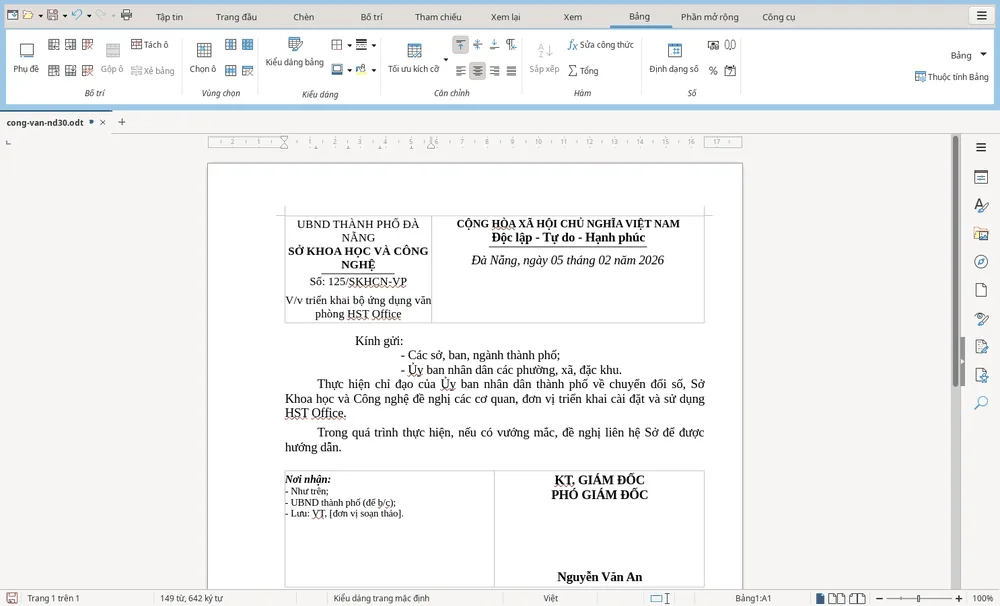
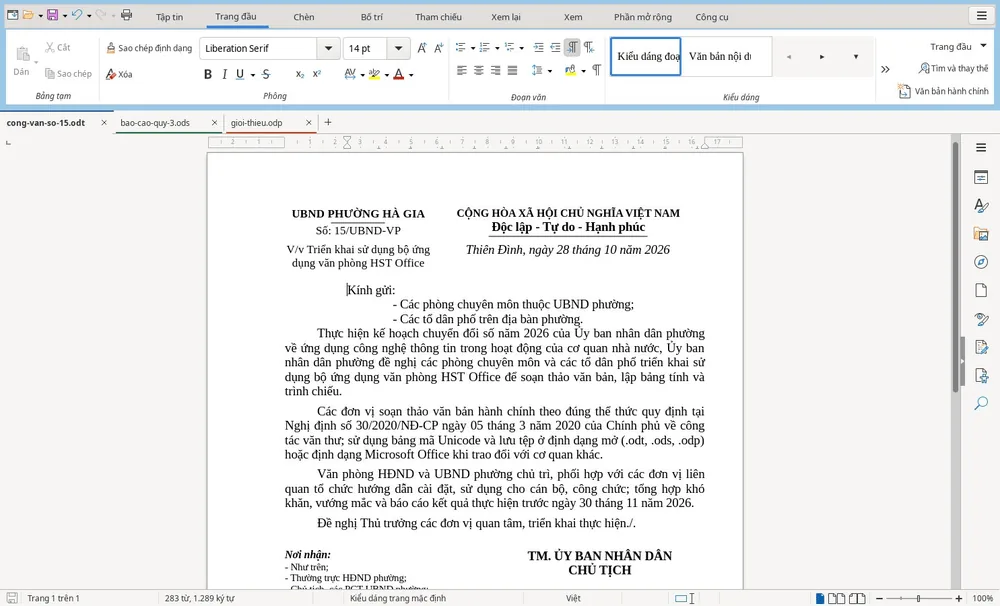
feat(website): sync the administrative-document result screenshot

diff --git a/website/office.hasontech.vn/huong-dan/nd30/index.html b/website/office.hasontech.vn/huong-dan/nd30/index.html
@@ -176,7 +176,7 @@
   <li>Kiểm tra văn bản đã chèn và điền các chỗ giữ chỗ còn lại.</li>
 </ol>
 <p>Công cụ áp dụng phông Times New Roman, cỡ chữ, chữ in hoa, đường kẻ và căn lề theo Phụ lục I của Nghị định.</p>
-<figure><picture><source type="image/webp" srcset="/huong-dan/images/nd30-result.webp?v=dac8535a"><img decoding="async" src="/huong-dan/images/nd30-result.png?v=dac8535a" alt="Công văn sau khi chèn vào HST Writer có phần cơ quan, quốc hiệu, tiêu ngữ, Kính gửi, nội dung, Nơi nhận và chữ ký." loading="lazy" width="1000" height="606"></picture><figcaption>Kết quả chèn công văn vào HST Writer.</figcaption></figure>
+<figure><picture><source type="image/webp" srcset="/huong-dan/images/nd30-result.webp?v=ad76d0a0"><img decoding="async" src="/huong-dan/images/nd30-result.png?v=ad76d0a0" alt="Công văn của UBND phường Hà Gia trong HST Writer: tên cơ quan, số ký hiệu, trích yếu, quốc hiệu, tiêu ngữ, địa danh và ngày tháng, Kính gửi, nội dung và Nơi nhận." loading="lazy" width="1000" height="606"></picture><figcaption>Kết quả chèn công văn vào HST Writer.</figcaption></figure>
 <p>Nếu vừa chèn sai, nhấn <span class="keys"><kbd>Ctrl</kbd>+<kbd>Z</kbd></span> một lần để xóa toàn bộ văn bản vừa chèn. Thao tác này không khôi phục các thay đổi trang và lịch sử hoàn tác đã nêu ở trên.</p>
 </article>
         <nav class="page-nav" aria-label="Chuyển trang hướng dẫn">
